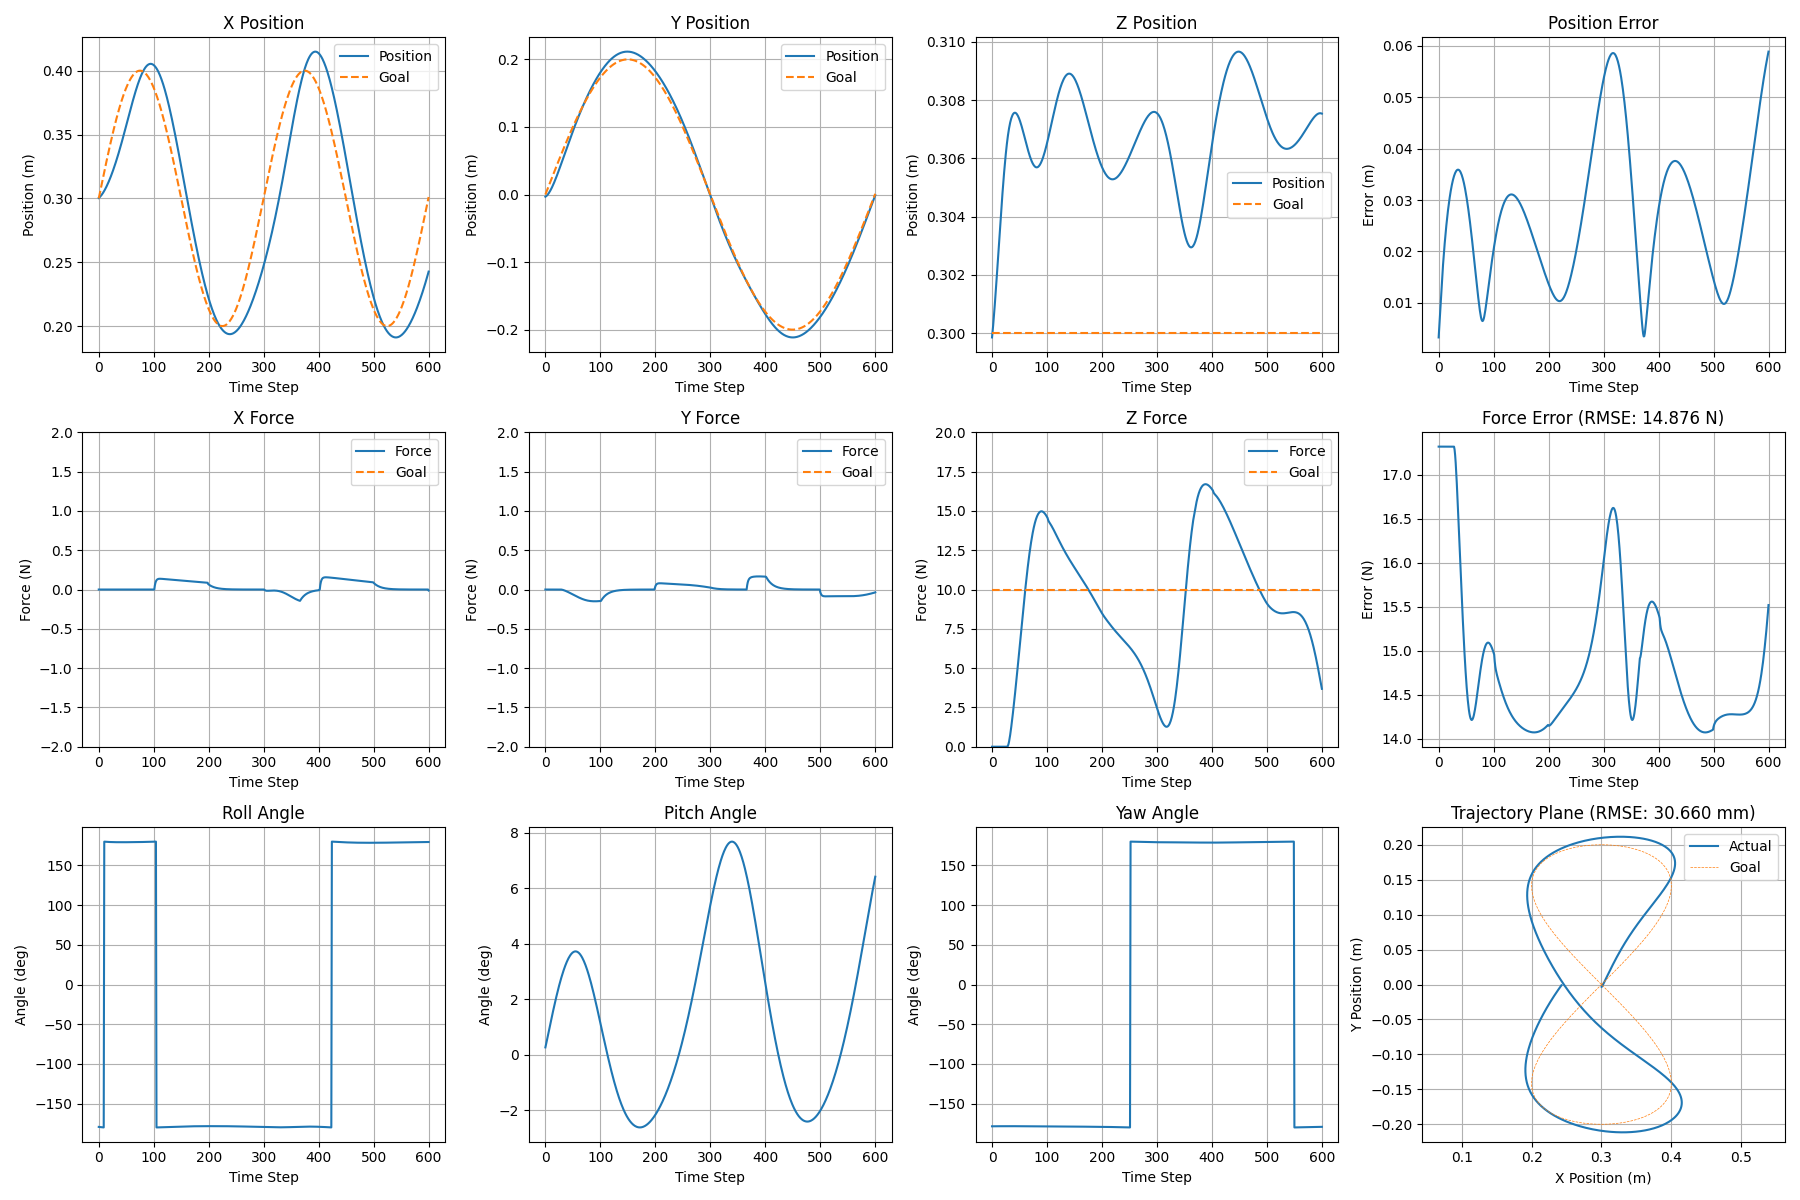
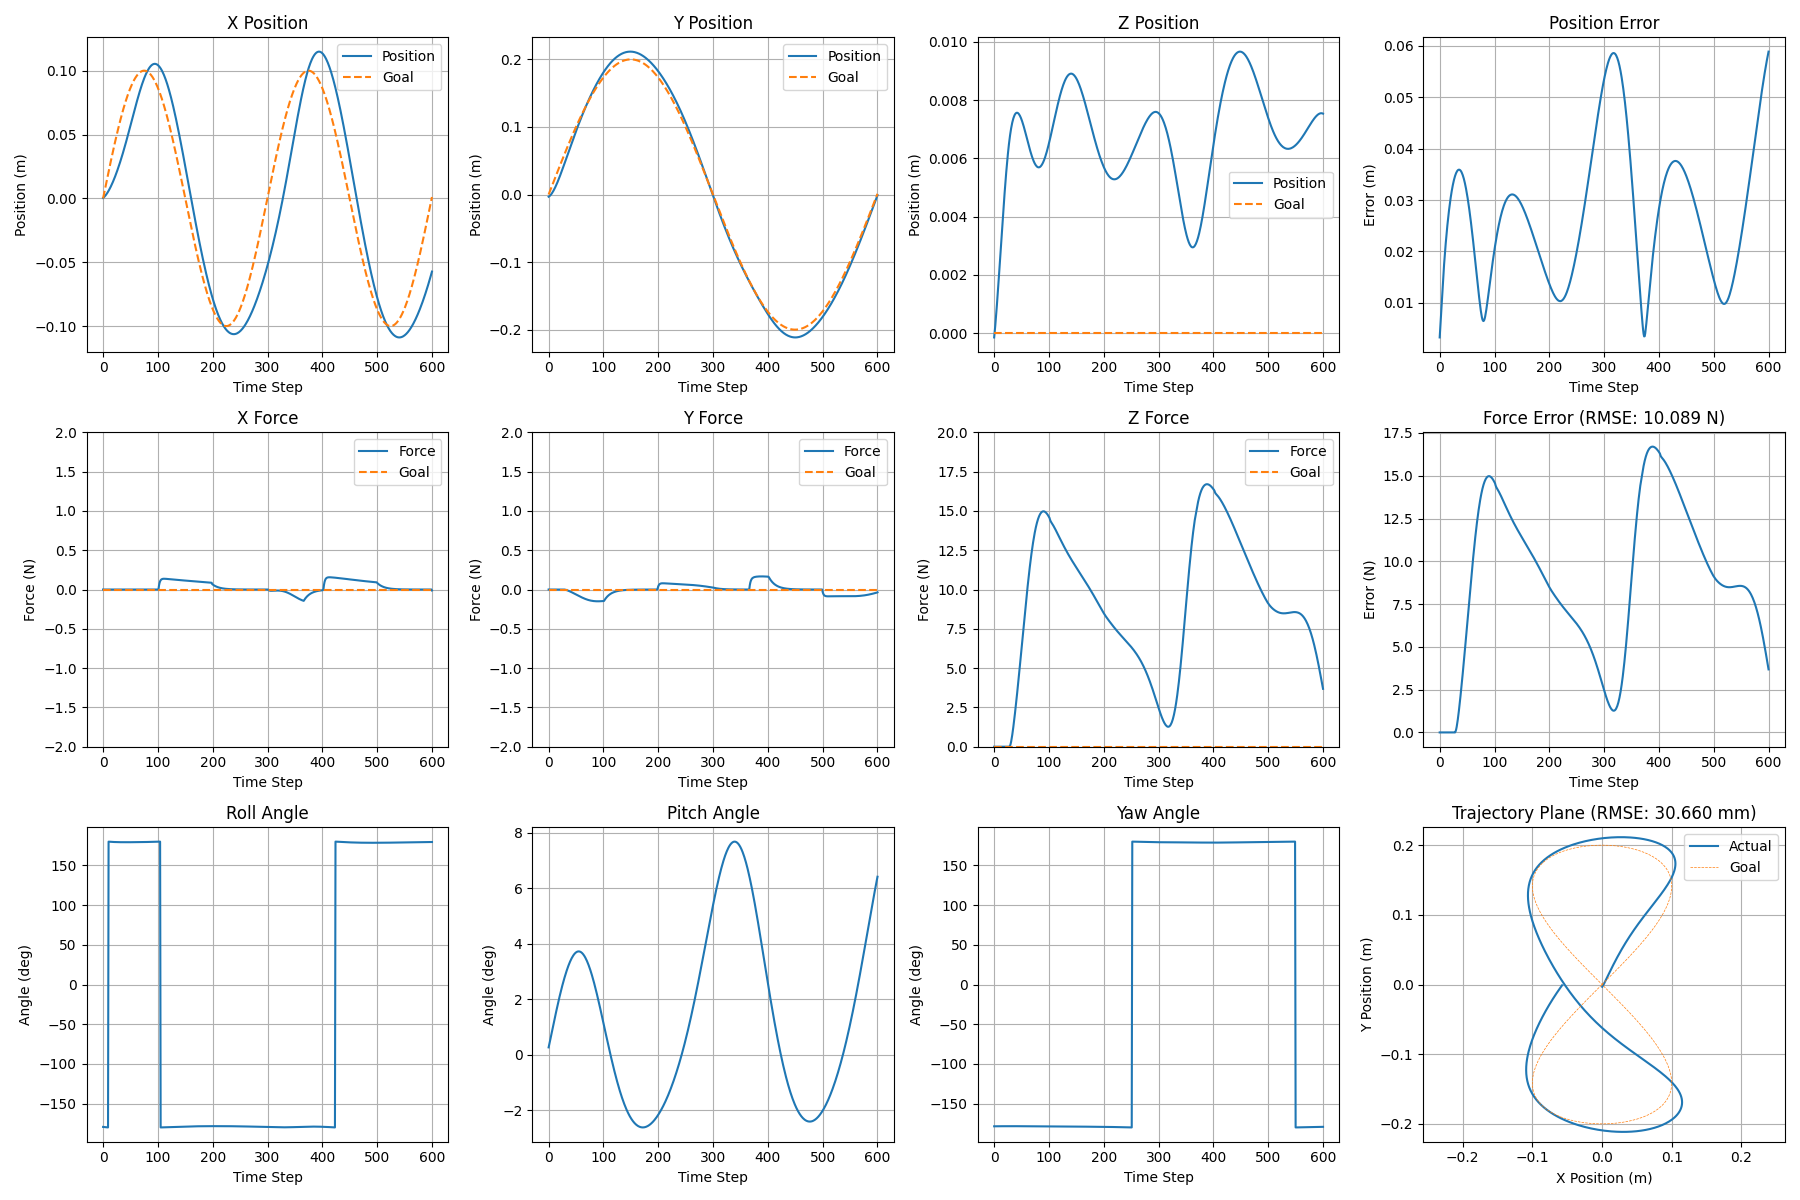
Plot data for report.

diff --git a/scripts/plot_data.py b/scripts/plot_data.py
@@ -1,0 +1,112 @@
+"""Plot evaluation CSV data for different controllers."""
+
+from __future__ import annotations
+
+from pathlib import Path
+from typing import Dict, Tuple
+
+import fire
+import matplotlib.pyplot as plt
+import numpy as np
+
+
+def _load_csv(csv_path: Path) -> np.ndarray:
+    return np.genfromtxt(csv_path, delimiter=",", names=True, dtype=float)
+
+
+def _rmse(values: np.ndarray) -> float:
+    return float(np.sqrt(np.mean(values**2)))
+
+
+def _extract_controller_name(csv_path: Path, environment: str) -> str:
+    stem = csv_path.stem  # e.g., "box_HFIC_plot"
+    prefix = f"{environment}_"
+    suffix = "_plot"
+    if stem.startswith(prefix) and stem.endswith(suffix):
+        return stem[len(prefix) : -len(suffix)]
+    return stem
+
+
+def plot_environment(environment: str = "box") -> Tuple[Path, Path]:
+    root_dir = Path(__file__).parents[1]
+    save_dir = root_dir / "saves"
+    csv_files = sorted(save_dir.glob(f"{environment}_*_plot.csv"))
+    if not csv_files:
+        raise FileNotFoundError(f"No CSV files found for environment '{environment}' in {save_dir}")
+
+    controller_data: Dict[str, np.ndarray] = {}
+    for csv_path in csv_files:
+        controller = _extract_controller_name(csv_path, environment)
+        controller_data[controller] = _load_csv(csv_path)
+
+    # Define controller order
+    controller_order = ["imp", "mfc", "hfic", "pdimfc"]
+    sorted_controllers = [c for c in controller_order if c in controller_data]
+
+    # environment name
+    match environment:
+        case "box":
+            env_name = "Planar Surface"
+        case "surface":
+            env_name = "Curved Surface"
+
+    # Plot Z Force comparison
+    fig_force, ax_force = plt.subplots(figsize=(6, 4))
+    colors = plt.cm.tab10.colors
+    for idx, controller in enumerate(sorted_controllers):
+        data = controller_data[controller]
+        force_z = data["force_2"]
+        goal_force_z = data["goal_force_2"]
+        err = force_z - goal_force_z
+        rmse_z = _rmse(err)
+        ax_force.plot(force_z, color=colors[idx % len(colors)], label=f"{controller.upper()} (RMSE: {rmse_z:.3f} N)")
+
+    # Plot goal force once (assume same length as data)
+    last_data = list(controller_data.values())[-1]
+    ax_force.plot(last_data["goal_force_2"], color="black", linestyle="--", label="Goal")
+    ax_force.set_title(f"{env_name} - Normal Force")
+    ax_force.set_xlabel("Time Step")
+    ax_force.set_ylabel("Force (N)")
+    ax_force.grid(True)
+    ax_force.legend()
+
+    z_force_path = save_dir / f"{environment}_force.png"
+    fig_force.tight_layout()
+    fig_force.savefig(z_force_path)
+
+    # Plot Trajectory Plane (XY)
+    fig_traj, ax_traj = plt.subplots(figsize=(6, 6))
+    for idx, controller in enumerate(sorted_controllers):
+        data = controller_data[controller]
+        pos_x = data["pos_0"]
+        pos_y = data["pos_1"]
+        goal_x = data["goal_0"]
+        goal_y = data["goal_1"]
+        err_xy = np.sqrt((pos_x - goal_x) ** 2 + (pos_y - goal_y) ** 2)
+        rmse_xy = _rmse(err_xy)
+        ax_traj.plot(
+            pos_x,
+            pos_y,
+            color=colors[idx % len(colors)],
+            linewidth=3,
+            label=f"{controller.upper()} (RMSE: {rmse_xy * 1000:.3f} mm)",
+        )
+
+    ax_traj.plot(last_data["goal_0"], last_data["goal_1"], color="black", linestyle="--", label="Goal")
+    ax_traj.set_title(f"{env_name} - Trajectory Plane (XY)")
+    ax_traj.set_xlabel("X Position (m)")
+    ax_traj.set_ylabel("Y Position (m)")
+    ax_traj.grid(True)
+    ax_traj.legend()
+    ax_traj.axis("equal")
+    ax_traj.set_xlim(-0.15, 0.3)
+
+    traj_path = save_dir / f"{environment}_motion.png"
+    fig_traj.tight_layout()
+    fig_traj.savefig(traj_path)
+
+    return z_force_path, traj_path
+
+
+if __name__ == "__main__":
+    fire.Fire(plot_environment, serialize=lambda _: None)

diff --git a/franesis/utils/utils.py b/franesis/utils/utils.py
@@ -52,13 +52,23 @@ class EvalRecorder:
         self._record_force.append(force)
         self._record_goal_force.append(goal_force)
 
-    def plot_eval(self, save_path: str = "eval_plot.png", traj_plane: list = [0, 1]) -> plt.Figure:
-        """Plot recorded traces and save to `save_path`."""
+    def plot_eval(
+        self, save_path: str = "eval_plot.png", traj_plane: list = [0, 1], save_data: bool = False
+    ) -> plt.Figure:
+        """Plot recorded traces and save to `save_path`.
+
+        Args:
+            save_path: Filename for the plot image.
+            traj_plane: Indices of the trajectory plane to plot.
+            save_data: If True, save recorded data to a CSV file with the same name as
+                `save_path` but with a .csv suffix.
+        """
         pos = np.array(self._record_pos)
         goal = np.array(self._record_goal)
         rpy = np.array(self._record_rpy)
         force = np.array(self._record_force)
         goal_force = np.array(self._record_goal_force)
+        act = np.array(self._record_act)
 
         fig, axes = plt.subplots(3, 4, figsize=(18, 12))
         axes = axes.flatten()
@@ -127,6 +137,41 @@ class EvalRecorder:
 
         plt.tight_layout()
         plt.savefig(Path(__file__).parents[2] / "saves" / save_path)
+
+        if save_data:
+            save_dir = Path(__file__).parents[2] / "saves"
+            save_dir.mkdir(parents=True, exist_ok=True)
+            csv_name = f"{Path(save_path).stem}.csv"
+            csv_path = save_dir / csv_name
+
+            def _flatten(x: NDArray) -> NDArray:
+                if x.size == 0:
+                    return x
+                return x.reshape(x.shape[0], -1)
+
+            act_f = _flatten(act)
+            pos_f = _flatten(pos)
+            goal_f = _flatten(goal)
+            rpy_f = _flatten(rpy)
+            force_f = _flatten(force)
+            goal_force_f = _flatten(goal_force)
+
+            parts = [pos_f, goal_f, rpy_f, force_f, goal_force_f]
+            headers = [
+                [f"pos_{i}" for i in range(pos_f.shape[1])],
+                [f"goal_{i}" for i in range(goal_f.shape[1])],
+                [f"rpy_{i}" for i in range(rpy_f.shape[1])],
+                [f"force_{i}" for i in range(force_f.shape[1])],
+                [f"goal_force_{i}" for i in range(goal_force_f.shape[1])],
+            ]
+
+            if act_f.size != 0:
+                parts.insert(0, act_f)
+                headers.insert(0, [f"act_{i}" for i in range(act_f.shape[1])])
+
+            data = np.concatenate(parts, axis=1)
+            header = ",".join(sum(headers, []))
+            np.savetxt(csv_path, data, delimiter=",", header=header, comments="")
 
         return fig
 

diff --git a/franesis/control/PDIMFC_controller.py b/franesis/control/PDIMFC_controller.py
@@ -111,11 +111,7 @@ class PDIMFCController:
         dJdq = dJ_full @ dq
         dM = C + C.T
         dM_inv = -M_inv @ dM @ M_inv
-        dLambda_inv = (
-            dJ_mf @ M_inv @ J_mf.T
-            + J_mf @ dM_inv @ J_mf.T
-            + J_mf @ M_inv @ dJ_mf.T
-        )  # (6,6)
+        dLambda_inv = dJ_mf @ M_inv @ J_mf.T + J_mf @ dM_inv @ J_mf.T + J_mf @ M_inv @ dJ_mf.T  # (6,6)
 
         # 2. compansate for nonlinear effects
         # nonlinear effects = C*dq + g
@@ -133,15 +129,15 @@ class PDIMFCController:
         A = Lambda[:5, :5]
         B = Lambda[:5, 5:6]
         D = Lambda[5:6, 5:6]
-        Lambda_des[5:6, :5] = 0.0 # partial decoupling
+        Lambda_des[5:6, :5] = 0.0  # partial decoupling
         Lambda_des[5:6, 5:6] = D - B.T @ np.linalg.inv(A + 1e-6 * np.eye(5)) @ B
         Lambda_des_inv = np.linalg.inv(Lambda_des)
         Lambda_motion_des = Lambda_des[:5, :5]
         Lambda_couple_des = Lambda_des[:5, 5:6]
         Lambda_dot = -Lambda @ dLambda_inv @ Lambda  # (6,6)
         C_bar = 0.5 * Lambda_dot  # (6,6)
-        C_m = C_bar[:5, :5]       # (5,5)
-        C_f = C_bar[5:6, 5:6]     # (1,1)
+        C_m = C_bar[:5, :5]  # (5,5)
+        C_f = C_bar[5:6, 5:6]  # (1,1)
 
         # 4. cartesian impedance control (u_m)
         R_act = R.from_quat(quat).as_matrix()
@@ -162,9 +158,13 @@ class PDIMFCController:
         dd_x_m_des = dd_x_des[:5]
         dd_x_f_des = dd_x_des[5:6]
 
-        u_m = Lambda_motion_des @ dd_x_m_des + Lambda_couple_des @ dd_x_f_des \
-            - self.kp[motion_idx] * x_m_tilde - self.kd[motion_idx] * dx_m_tilde \
+        u_m = (
+            Lambda_motion_des @ dd_x_m_des
+            + Lambda_couple_des @ dd_x_f_des
+            - self.kp[motion_idx] * x_m_tilde
+            - self.kd[motion_idx] * dx_m_tilde
             + C_m @ dx_m_tilde
+        )
 
         # 5. force control (u_f)
         F_ext = info.get("ee_task_F_ext", obs["F_ext"])
@@ -174,14 +174,13 @@ class PDIMFCController:
         dF_ext = (F_ext - self.last_F_ext) / self.dt
         dF_f_ext = dF_ext[2:3]
         self.last_F_ext = F_ext.copy()
-        
-        u_f = F_des + self.kp_force[2:3] * (F_f_ext + F_des) - self.kd_force[2:3] * dF_f_ext \
-            + C_f.squeeze() * dx[5:6]
-        
+
+        u_f = F_des + self.kp_force[2:3] * (F_f_ext + F_des) - self.kd_force[2:3] * dF_f_ext + C_f.squeeze() * dx[5:6]
+
         # 6. shape inertia
         u = np.concatenate([u_m, u_f])  # (6,)
         F = Lambda @ (Lambda_des_inv @ u - dJdq) + (Lambda @ Lambda_des_inv - np.eye(6)) @ F_mf_ext
-        
+
         tau_ctrl += J_mf.T @ F
 
         return tau_ctrl

diff --git a/franesis/control/impedance_controller.py b/franesis/control/impedance_controller.py
@@ -52,9 +52,9 @@ class CartesianImpedanceController:
         t = np.linspace(0, 2 * np.pi * num_loops, n_steps)
         radius = 0.2  # Radius for the circles
         t_dot = 2 * np.pi * num_loops / self.trajectory_time
-        x = radius / 2 * np.sin(2 * t) + 0.3
+        x = radius / 2 * np.sin(2 * t)
         y = radius * np.sin(t) + 0.0
-        z = np.zeros_like(t) + 0.3
+        z = np.zeros_like(t)
         self.trajectory = np.array([x, y, z]).T
         d_x = radius * np.cos(2 * t) * t_dot
         d_y = radius * np.cos(t) * t_dot
@@ -80,8 +80,8 @@ class CartesianImpedanceController:
         # 1. prepare data
         q = obs["q"]
         dq = obs["dq"]
-        pos = obs["ee_pos"]
-        quat = obs["ee_quat"]
+        pos = info.get("ee_task_pos", obs["ee_pos"])
+        quat = info.get("ee_task_quat", obs["ee_quat"])
         J = info["ee_jacobian"]
         dx = J @ dq
         idx = min(self.steps, self.trajectory.shape[0] - 1)
@@ -114,9 +114,10 @@ class CartesianImpedanceController:
         """Record data and increment step counter."""
         # Record data with batch dimension (1, dim)
         idx = min(self.steps, self.trajectory.shape[0] - 1)
-        position = obs["ee_pos"].copy()
+        position = info.get("ee_task_pos", obs["ee_pos"])
+        quat = obs["ee_quat"]
         goal = self.trajectory[idx].copy()
-        rpy = R.from_quat(obs["ee_quat"]).as_euler("xyz")
+        rpy = R.from_quat(quat).as_euler("xyz")
 
         action = info.get("actions", np.zeros((4,)))
         self.eval_recorder.record_step(

diff --git a/README.md b/README.md
@@ -31,6 +31,7 @@ Default cartesian impedance controller.
 ```bash
 python scripts/sim.py -e default -c imp
 python scripts/sim.py -e box -c imp
+python scripts/sim.py -e surface -c imp
 ```
 ### Motion Force Controller
 Cartesian impedance controller with explicit force PD control.
